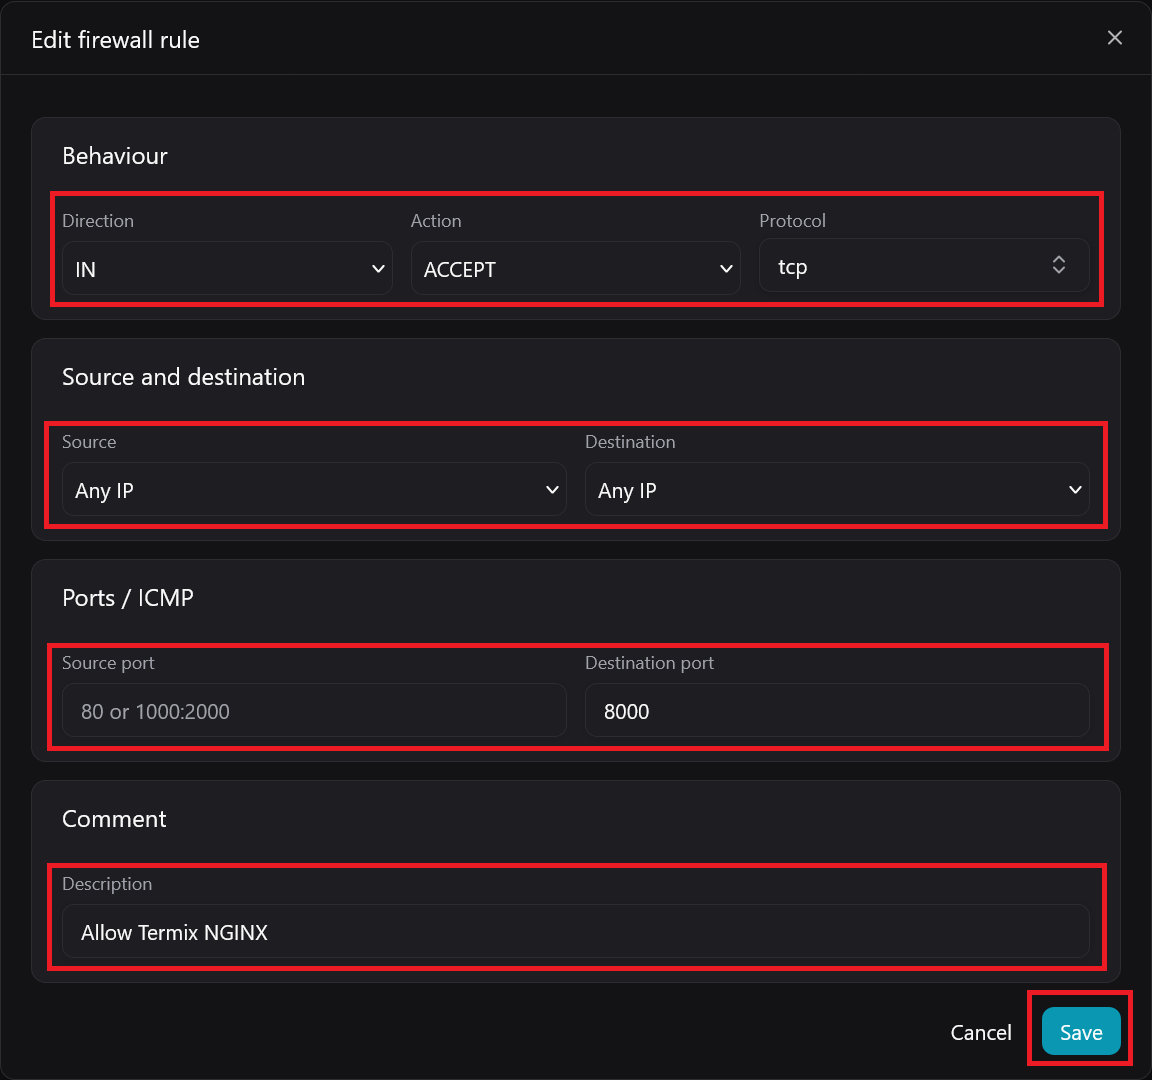
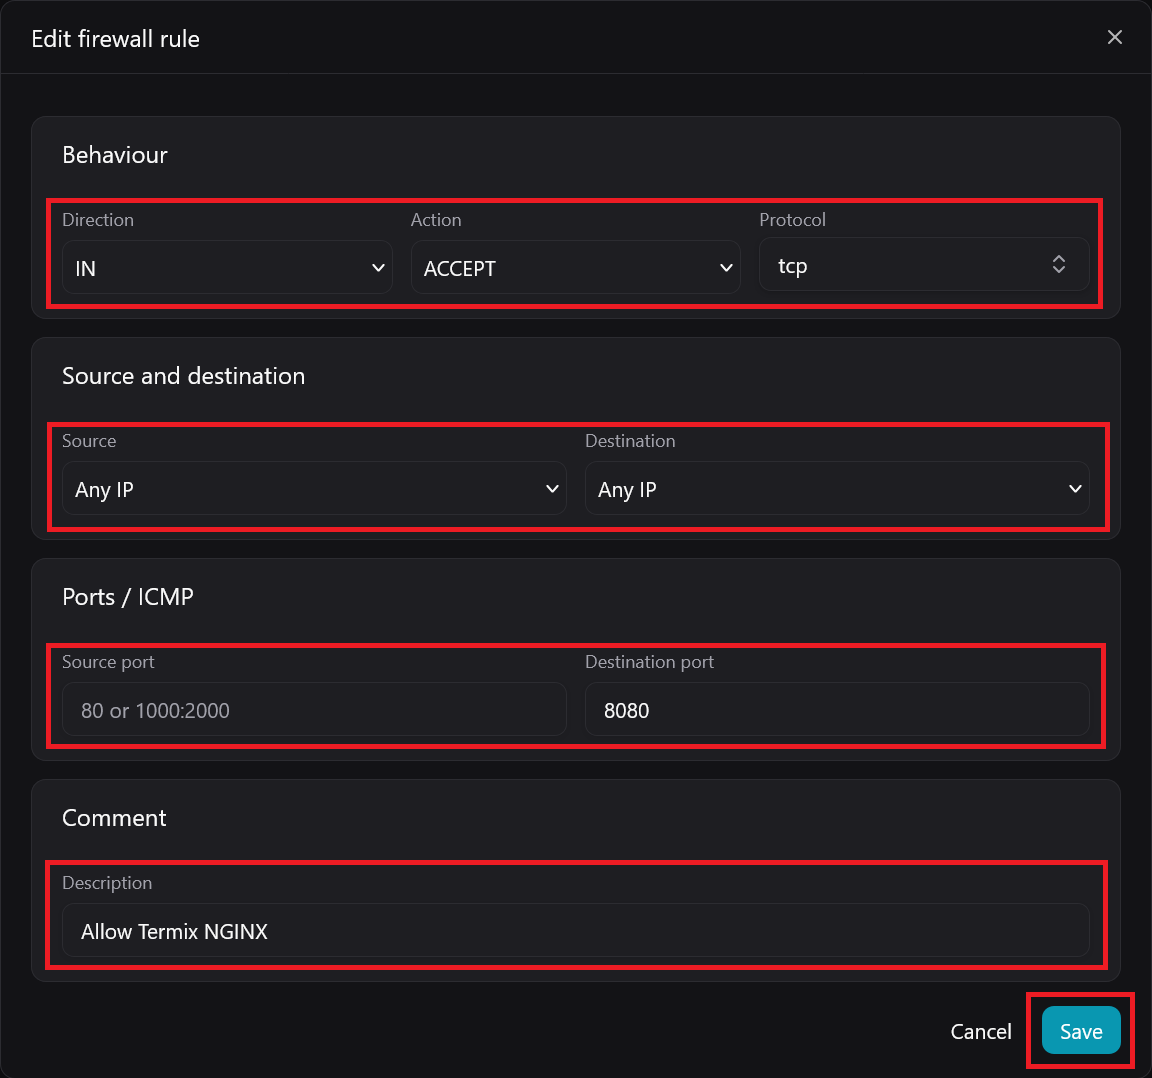
feat: update docs

diff --git a/src/components/sponsors/index.tsx b/src/components/sponsors/index.tsx
@@ -1,4 +1,5 @@
 import type { ReactNode } from 'react';
+import Link from '@docusaurus/Link';
 import Heading from '@theme/Heading';
 import styles from './styles.module.css';
 
@@ -75,6 +76,14 @@ export default function Sponsors(): ReactNode {
             </a>
           ))}
         </div>
+        <p className={styles.sponsorsFootnote}>
+          Want to run Termix on a cloud VPS instead of your own hardware? Our sponsor{' '}
+          <a href="https://ginernet.com/" target="_blank" rel="noopener noreferrer sponsored">
+            GINERNET
+          </a>{' '}
+          is one option, with a step-by-step{' '}
+          <Link to="/install/ginernet">deployment guide</Link> in the docs.
+        </p>
       </div>
     </section>
   );

diff --git a/src/components/sponsors/styles.module.css b/src/components/sponsors/styles.module.css
@@ -46,6 +46,13 @@
   object-fit: contain;
 }
 
+.sponsorsFootnote {
+  font-size: 0.8rem;
+  line-height: 1.65;
+  color: var(--foreground-secondary);
+  margin: 2rem 0 0;
+}
+
 @media screen and (max-width: 996px) {
   .sponsors {
     padding: 2rem 0;
